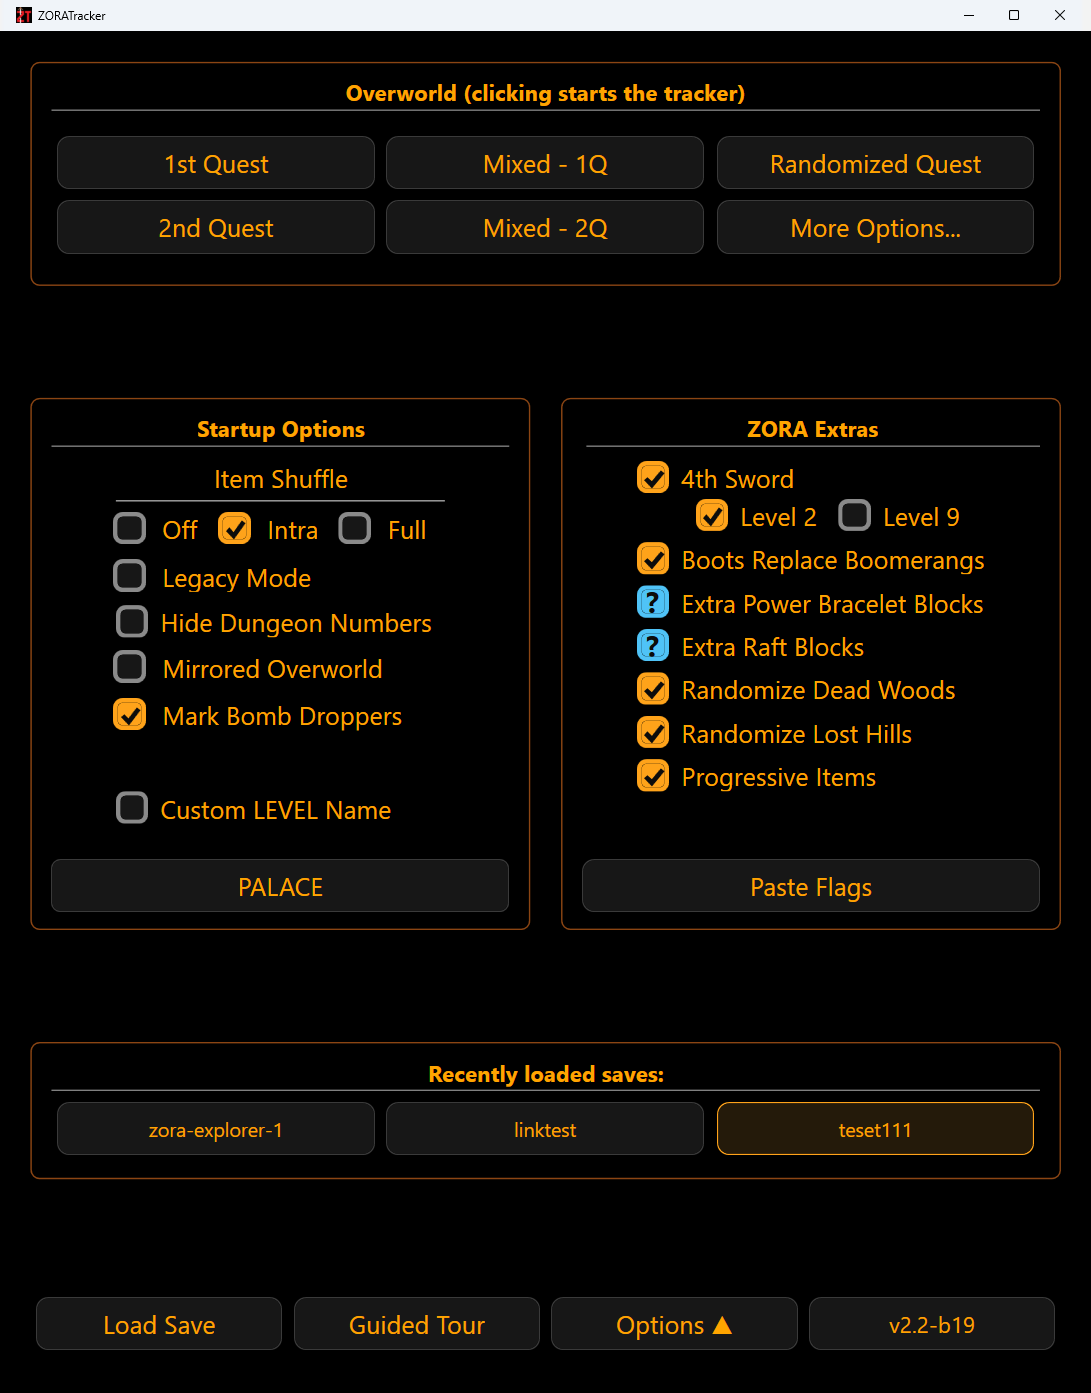
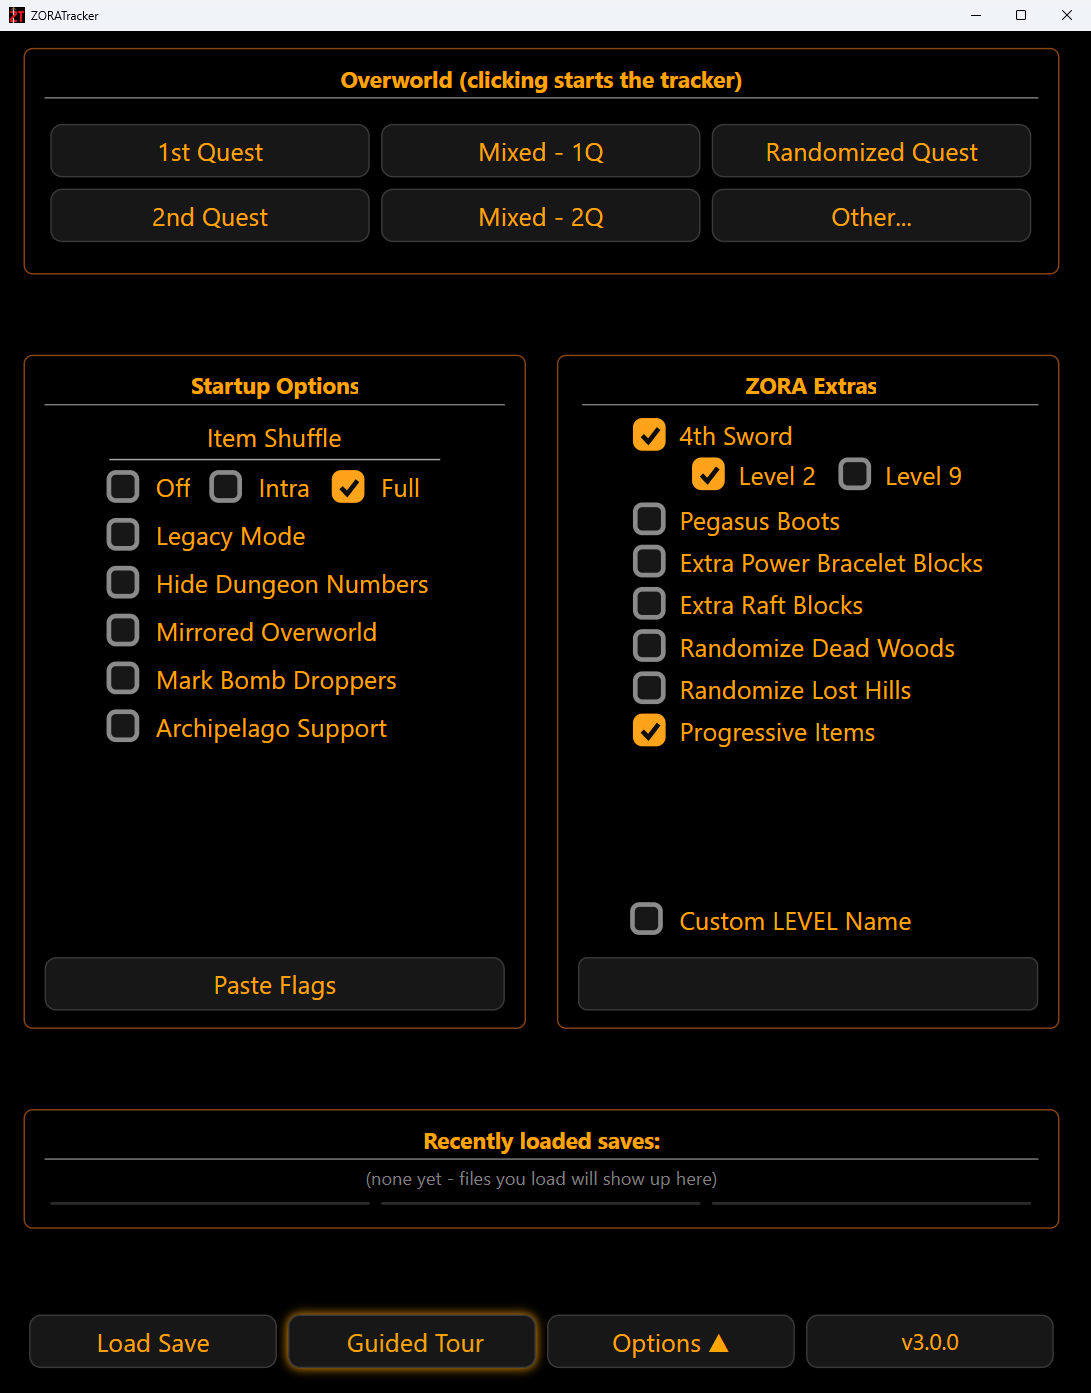
Retake README screenshots for 3.0
Start screen shows v3.0.0, Archipelago Support, Pegasus Boots and 4th Sword
levels. Main screen is a mid-run view with the AP counter. Updates the alt
text to match.

diff --git a/README.md b/README.md
@@ -17,7 +17,7 @@ Free your head for the run: the tracker remembers where everything is.
 
 <br>
 
-<img src="images/zoratracker.png" alt="The ZORATracker main screen mid-run: dungeon item boxes and counters across the top, the overworld map with marked caves and dungeon entrances, a hand-drawn BOARD-1 dungeon map, blockers and notes panels, and a timeline along the bottom" width="640">
+<img src="images/zoratracker.png" alt="The ZORATracker main screen mid-run: dungeon item boxes and counters across the top, the overworld map with marked caves, shops and dungeon entrances, a marked-up PALACE-7 dungeon map, blockers and notes panels, and a timeline along the bottom" width="640">
 
 </div>
 
@@ -49,7 +49,7 @@ How well each one is tested:
 Stuck? Click **Guided Tour** on the start screen. The desktop app checks for new releases and tells you when one is available. The browser version updates on your next visit.
 
 <div align="center">
-<img src="images/start-screen.png" alt="The ZORATracker start screen: overworld buttons at the top, Startup Options and ZORA Extras with Paste Flags in the middle, recent saves, and Load Save, Guided Tour, Options and version buttons at the bottom" width="480">
+<img src="images/start-screen.png" alt="The ZORATracker start screen: overworld buttons at the top, Startup Options with Paste Flags and ZORA Extras with 4th Sword ticked in the middle, an empty recently loaded saves box, and Load Save, Guided Tour, Options and v3.0.0 buttons at the bottom" width="480">
 </div>
 
 ## What it tracks
